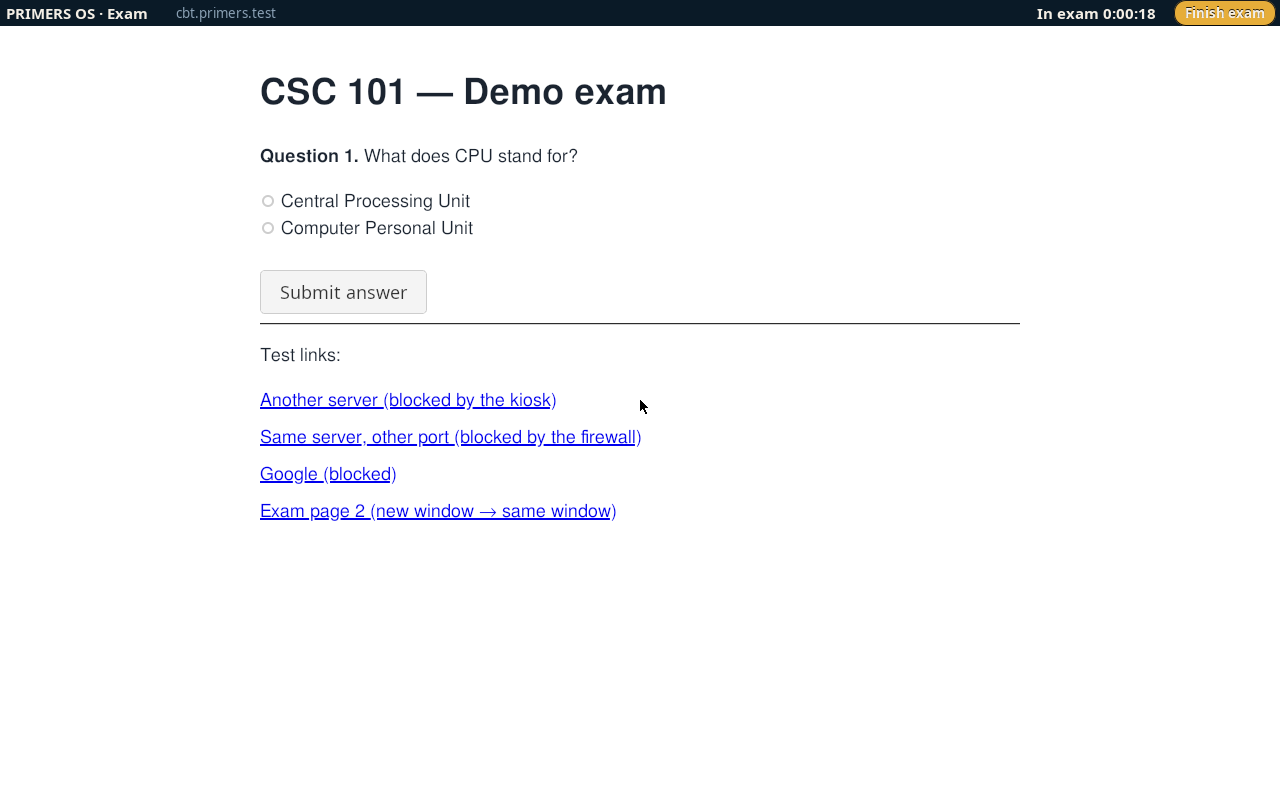
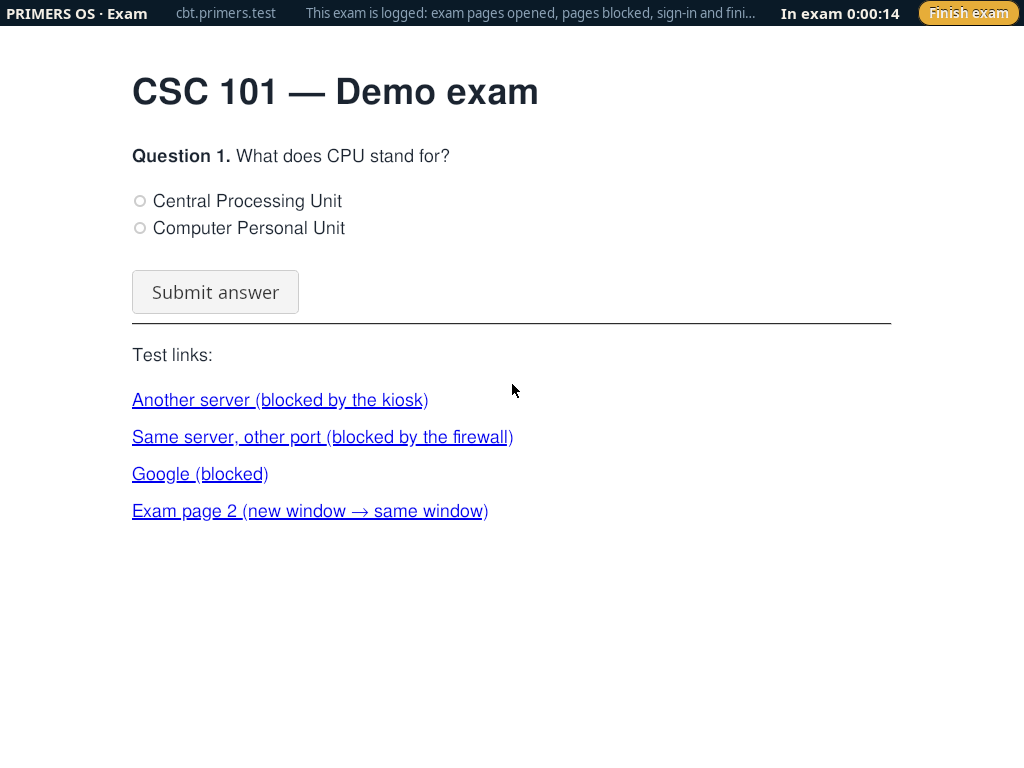
Screenshots: splash and exam kiosk from release run 44 (KVM): the 0.5 s blink, the 'exam is logged' line
Claude-Session: https://claude.ai/code/session_01VGfk4ZgHHmt749n4y6mqNR

diff --git a/docs/screenshots/README.md b/docs/screenshots/README.md
@@ -13,7 +13,7 @@ results. Every logo in them is the official artwork from
 | `login-screen.png` | The login screen with Lab Mode on: the lockup above the sign-in box, the app icon as the account picture |
 | `desktop.png` | The desktop with the PRIMERS Brain open: the app icon on its window and in the taskbar, window frames in the brand colours |
 | `desktop-wallpaper.png` | The wallpaper |
-| `exam-kiosk.png` | Exam Mode: the kiosk with a demo exam |
+| `exam-kiosk.png` | Exam Mode: the kiosk with a demo exam; the bar tells the candidate the exam is logged (privacy notice) |
 | `privacy-notice.png` | The privacy notice at an account's first sign-in on an installed PC: OK stays off until "I have read this privacy notice" is ticked (VM test `privacy`) |
 
-Screen size 1280×800 (a VM's display; real PCs use their own resolution).
+Screen sizes are a VM's display: 1024×768 for the splash and exam kiosk (release run 44, KVM) and 1280×800 for the others; real PCs use their own resolution.
